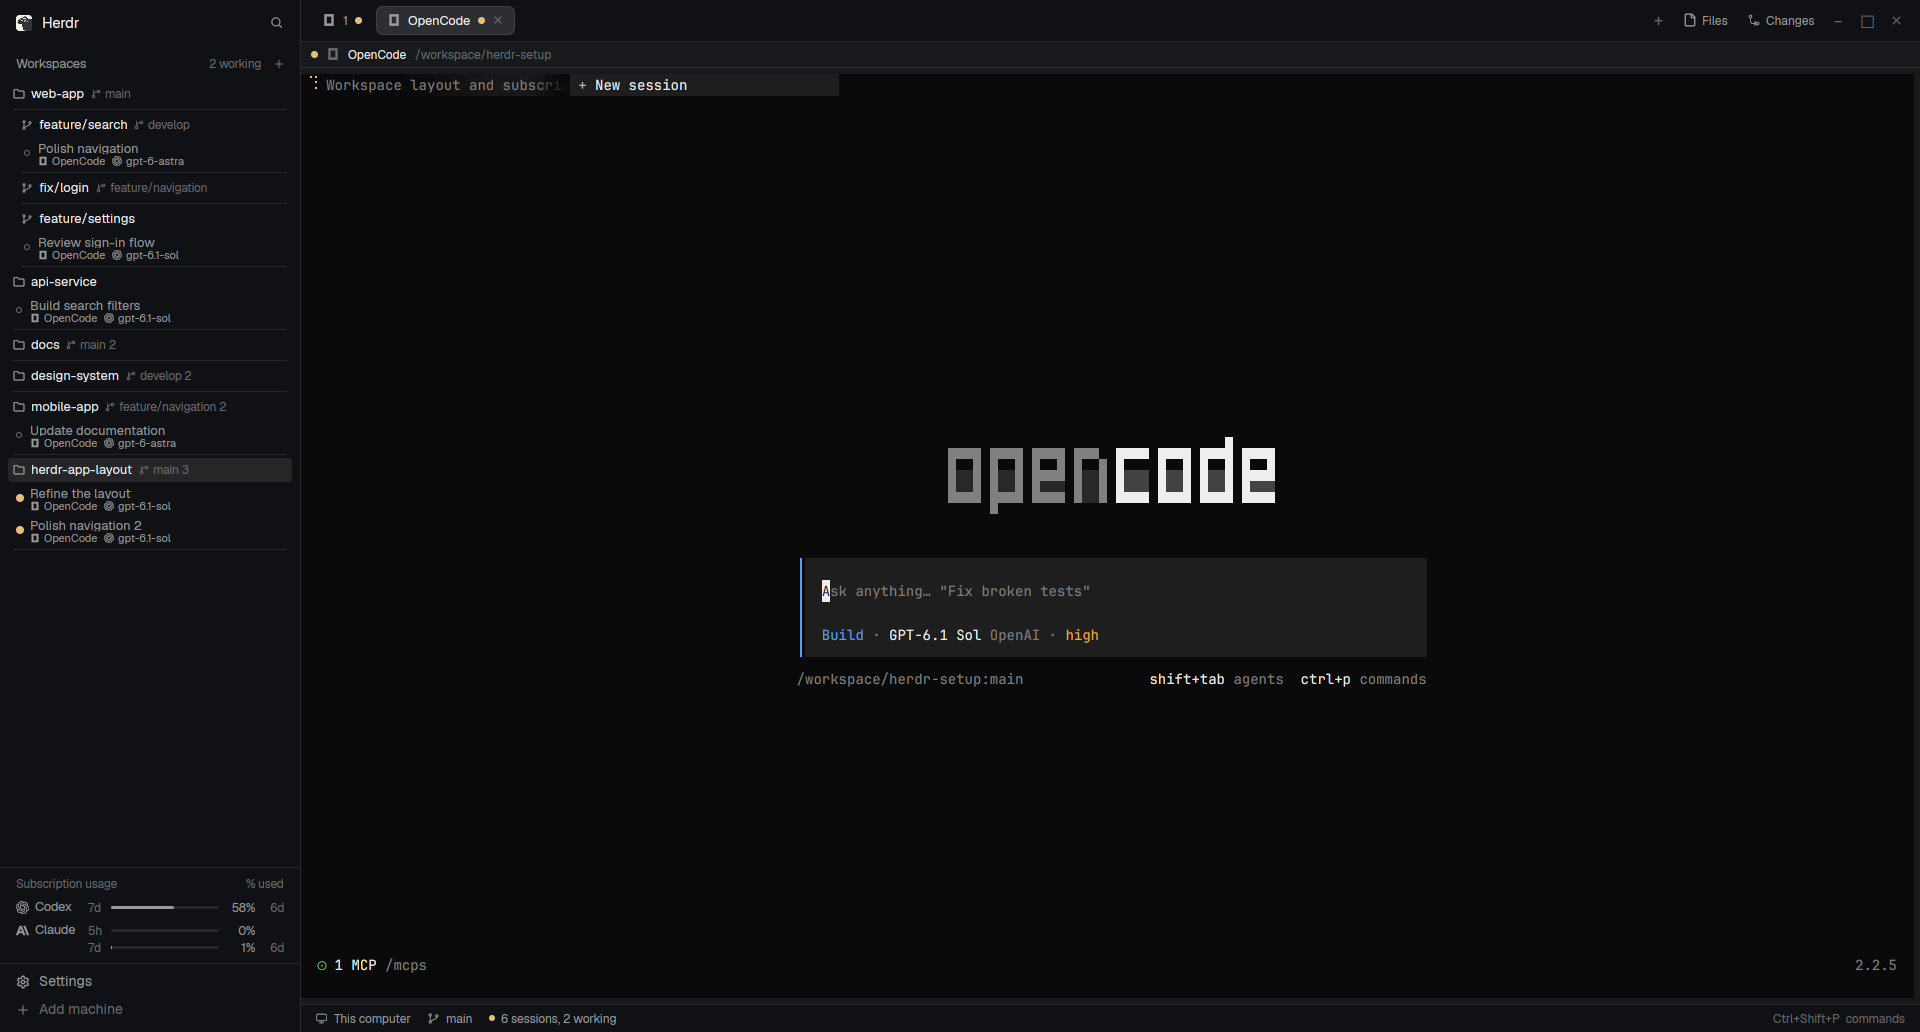
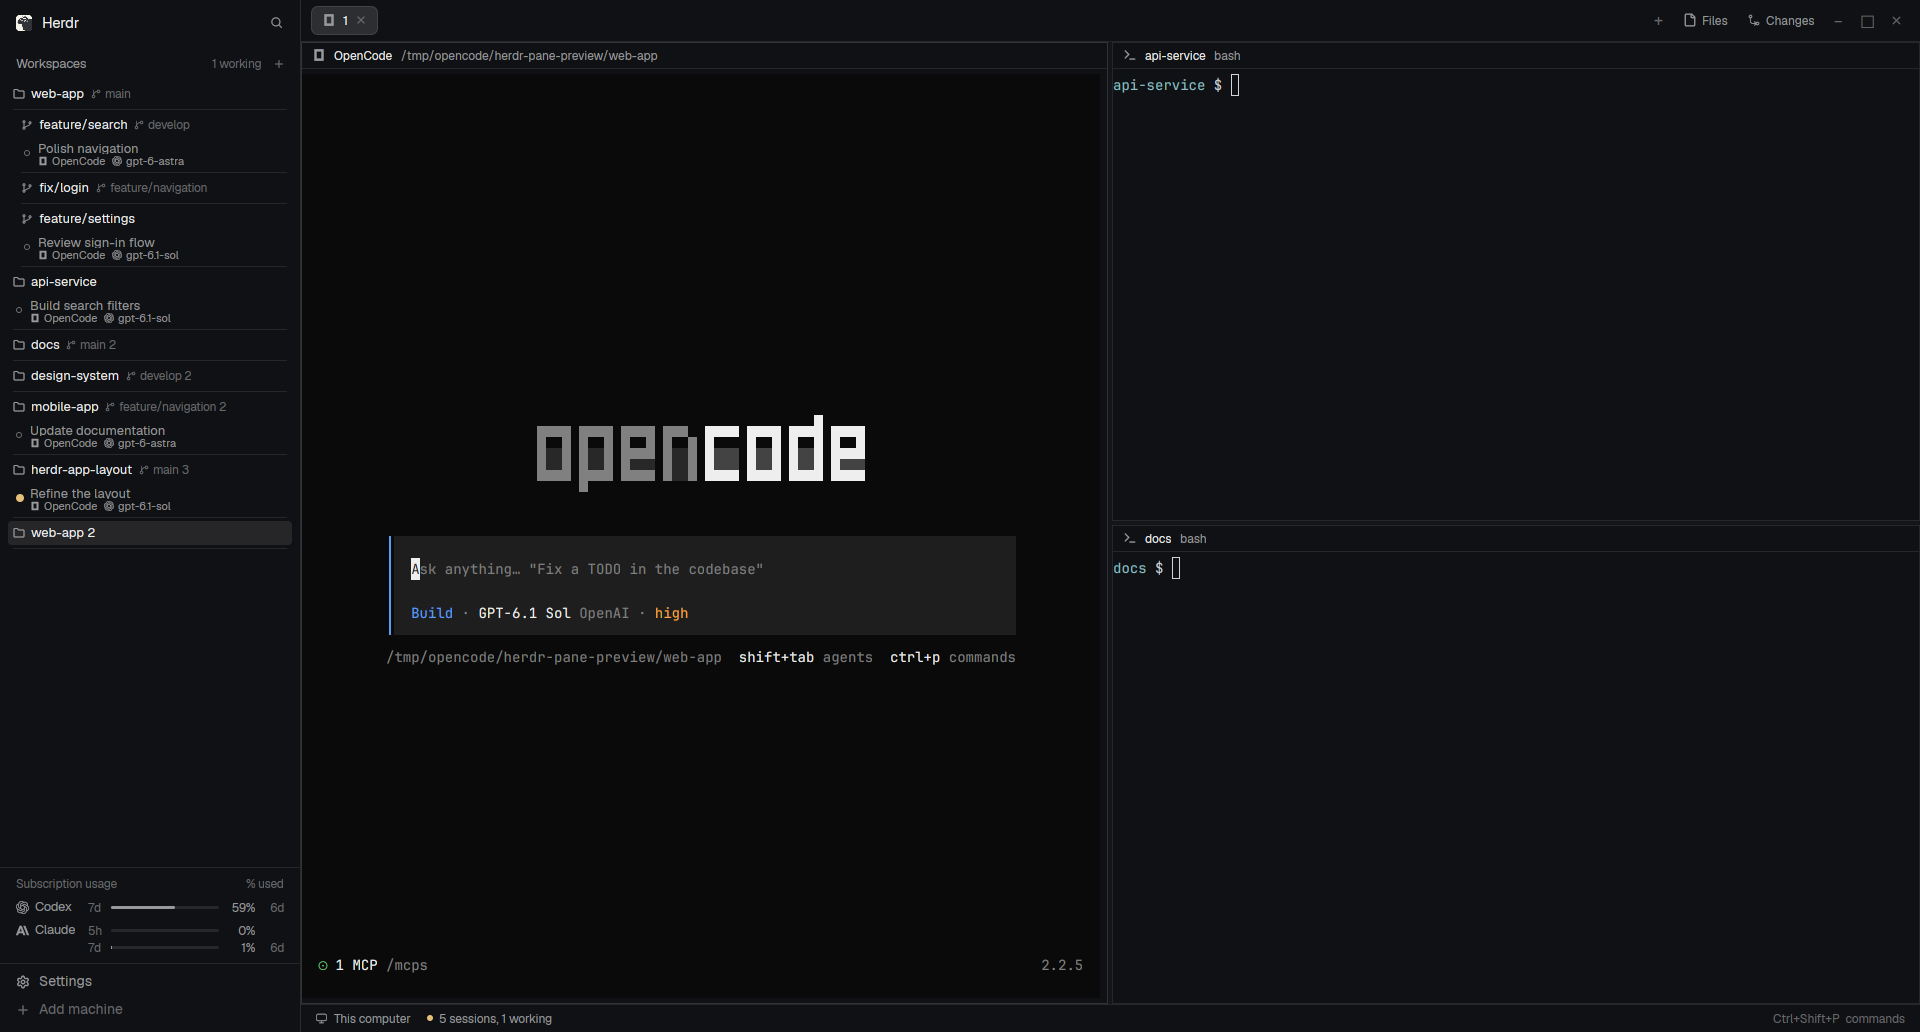
Refine split-pane contrast and headers

diff --git a/minimalist-compact/mods/minimalist-compact-pane-header/main.js b/minimalist-compact/mods/minimalist-compact-pane-header/main.js
@@ -26,9 +26,12 @@ function paneName(p) {
 function details(p, terminal, t) {
   const foreground = terminal?.foreground?.name ?? "";
   const shell = /^(?:bash|zsh|fish|sh|pwsh|powershell|nu)(?:\.exe)?$/.test(foreground.split(/[\\/]/).pop());
+  const path = folder(p.cwd);
+  const leaf = path.replace(/[\\/]+$/, "").split(/[\\/]/).pop() || path;
   return {
-    name: shell ? foreground : paneName(p),
-    pic: shell ? svg("icons/shell.svg").size(14).text_color(t.dim) : icon(p.program, 14, t.dim),
+    name: shell ? leaf || foreground : paneName(p),
+    context: shell ? foreground : path,
+    pic: shell ? svg("icons/shell.svg").size(14).text_color(t.muted) : icon(p.program, 14, t.muted),
     status: shell ? null : p.status,
   };
 }
@@ -59,15 +62,16 @@ export default class MinimalistCompactPaneHeader extends View {
     const p = this.me();
     if (!p) return div();
     const terminal = terminals().find(item => item.address === p.terminal);
-    const { name, pic, status } = details(p, terminal, t);
+    const { name, context, pic, status } = details(p, terminal, t);
     const pane = p.pane;
     return h_flex()
       .id(`pane-head-${pane}`)
       .size_full()
+      .min_w(0)
       .px(10)
       .gap(8)
       .items_center()
-      .bg(t.background)
+      .bg(t.chrome)
       .border_b(1)
       .border_color(t.border)
       .text_size(12)
@@ -77,8 +81,8 @@ export default class MinimalistCompactPaneHeader extends View {
       .when(status === "blocked", el => el.child(div().flex_none().px(6).h(18).flex().items_center().rounded(5).bg(t.blocked + "26").text_size(10.5).font_semibold().text_color(t.blocked).child("Needs you")))
       .when(status === "done", el => el.child(div().size(7).flex_none().rounded(4).bg(t.done)))
       .when(Boolean(pic), (el) => el.child(pic))
-      .child(div().flex_none().truncate().max_w(260).font_medium().text_color(t.foreground).child(name))
-      .child(div().flex_1().truncate().text_color(t.dim).child(folder(p.cwd)))
+      .child(div().min_w(0).truncate().max_w(260).font_medium().text_color(t.foreground).tooltip(p.title).child(name))
+      .child(div().flex_1().min_w(0).truncate().text_color(t.muted).tooltip(folder(p.cwd)).child(context))
       .when(this.hovered, el => el
         .child(this.button(t, `ph-r-${pane}`, "split-right", "pane.split", { direction: "right", pane }))
         .child(this.button(t, `ph-d-${pane}`, "split-down", "pane.split", { direction: "down", pane }))
